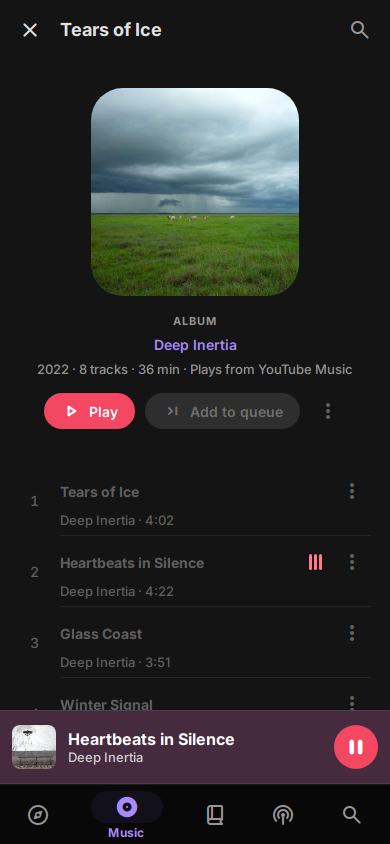
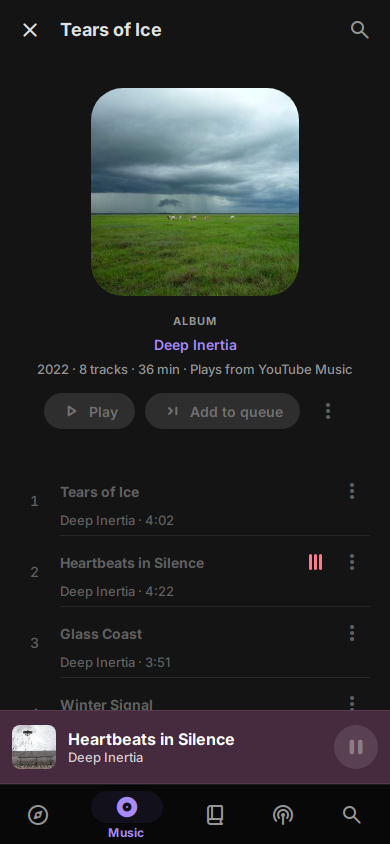
Leave the transport and Play disabled until the player can do them
Staging's controls check refuses an enabled control that does nothing. The player's
transport handlers are optional, and usePlay() hands the handler that plays an item, or
none: generated pages spell onPlay={play(ref, queue, mode)}. The stub gives neither, so
the controls draw disabled as before until the player store fills them; the book and
album renders are back to their committed pixels.

Plan: M1.shell
Claude-Session: https://claude.ai/code/session_013Mi6PDzaGubo3sD3DQbLBz

Changed region(s): [[0.0923, 0.4621, 0.3692, 0.5237], [0.8615, 0.8318, 0.9846, 0.9242]]

diff --git a/web/src/player/index.ts b/web/src/player/index.ts
@@ -2,9 +2,10 @@ import { placeholder, type Loaded } from '../generated/nav/playing';
 
 /**
  * The web's player, as the generated pages and shell bind it: `usePlaying()` is what is loaded,
- * in the canvas's shape, with its transport, or null while nothing is; `usePlay()` starts an
- * item. Until the player store (M1.shell, Part 7) fills them, what is loaded is the canvas's
- * picture of it and the transport and Play do nothing.
+ * in the canvas's shape, with its transport, or null while nothing is; `usePlay()` hands the
+ * handler that starts an item. A handler left out draws its control disabled, as a Sonora control
+ * with no action does. Until the player store (M1.shell, Part 7) fills them, what is loaded is
+ * the canvas's picture of it, with no transport, and nothing plays.
  */
 
 /** The queue an item plays on. */
@@ -13,45 +14,36 @@ export type PlayQueue = 'spoken' | 'music';
 /** How it plays: now, next in the queue, or a list played on its own. */
 export type PlayMode = 'now' | 'next' | 'source';
 
+/** The handler that plays the item `ref` names on `queue`, as `mode` says; none while it cannot. */
+export type Play = (ref: string, queue: PlayQueue, mode: PlayMode) => (() => void) | undefined;
+
 /** What is loaded and its transport, the mini-player's and Now Playing's handlers by name. */
 export interface Playing extends Loaded {
   /** Whether it plays, rather than sits paused. */
   playing: boolean;
   /** The playback rate, 1, 1.25, 1.5 … */
   speed: number;
-  onTogglePlay: () => void;
-  onPrev: () => void;
-  onNext: () => void;
-  onSkipBack: () => void;
-  onSkipForward: () => void;
+  onTogglePlay?: () => void;
+  onPrev?: () => void;
+  onNext?: () => void;
+  onSkipBack?: () => void;
+  onSkipForward?: () => void;
   /** Seeks to `value`, 0-1 of what is loaded. */
-  onSeek: (value: number) => void;
-  onSpeed: () => void;
-  onSleep: () => void;
+  onSeek?: (value: number) => void;
+  onSpeed?: () => void;
+  onSleep?: () => void;
 }
 
-const idle = () => {};
-
-const LOADED: Playing = {
-  ...placeholder,
-  playing: true,
-  speed: 1,
-  onTogglePlay: idle,
-  onPrev: idle,
-  onNext: idle,
-  onSkipBack: idle,
-  onSkipForward: idle,
-  onSeek: idle,
-  onSpeed: idle,
-  onSleep: idle,
-};
+const LOADED: Playing = { ...placeholder, playing: true, speed: 1 };
 
 /** What is loaded, or null while nothing is. */
 export function usePlaying(): Playing | null {
   return LOADED;
 }
 
-/** Plays the item `ref` names on `queue`, as `mode` says. */
-export function usePlay(): (ref: string, queue: PlayQueue, mode: PlayMode) => void {
-  return idle;
+const cannotPlay: Play = () => undefined;
+
+/** The player's Play. */
+export function usePlay(): Play {
+  return cannotPlay;
 }

diff --git a/design-codegen/src/page-web.test.ts b/design-codegen/src/page-web.test.ts
@@ -427,14 +427,14 @@ describe('[M1.shell] a page playing an item, on the web', () => {
     expect(playing).toContain("import { usePlay, type Playing } from '../../player';");
     expect(playing).toContain('  const play = usePlay();');
     expect(playing).toContain(
-      "<MediaCard title={b.title} onClick={() => play(b.ref, 'spoken', 'now')} />",
+      "<MediaCard title={b.title} onClick={play(b.ref, 'spoken', 'now')} />",
     );
   });
 
   it('plays it next, or a list on its own, as the Play says', () => {
-    expect(playing).toContain("onPlay={() => play(data.ref, 'spoken', 'now')}");
-    expect(playing).toContain("onPlayNext={() => play(data.ref, 'spoken', 'next')}");
-    expect(playing).toContain("onPlayLast={() => play(data.ref, 'music', 'source')}");
+    expect(playing).toContain("onPlay={play(data.ref, 'spoken', 'now')}");
+    expect(playing).toContain("onPlayNext={play(data.ref, 'spoken', 'next')}");
+    expect(playing).toContain("onPlayLast={play(data.ref, 'music', 'source')}");
   });
 
   it('refuses a Play in the back layer or subheader, which the shell draws outside the page', () => {

diff --git a/design-codegen/src/page-web.ts b/design-codegen/src/page-web.ts
@@ -170,12 +170,13 @@ function propLines(
     const to = params.length === 0 ? path : `generatePath(${path}, { ${params.join(', ')} })`;
     return [`${name}={() => navigate(${to})}`];
   }
-  // A Play plays its item through the web's player, now, next or as a list on its own.
+  // A Play plays its item through the web's player, now, next or as a list on its own: the
+  // player hands the handler, or none while it cannot play, so the control draws disabled.
   if (value.kind === 'play') {
     const ref = value.params['ref'];
     if (ref === undefined) throw new Error(`${owner}.${name}: Play needs ref={…}`);
     const mode = value.next ? 'next' : value.source ? 'source' : 'now';
-    return [`${name}={() => play(${pathCode(ref)}, '${value.queue}', '${mode}')}`];
+    return [`${name}={play(${pathCode(ref)}, '${value.queue}', '${mode}')}`];
   }
   // No request endpoint exists yet. A handler doing nothing would draw a dead control as
   // enabled, so the prop is left out and Sonora draws the control disabled.

diff --git a/design-codegen/src/book-details.test.ts b/design-codegen/src/book-details.test.ts
@@ -112,7 +112,7 @@ describe('Book', () => {
     });
     expect(typeof data.ref).toBe('string');
     const web = readFileSync(join(REPO_ROOT, 'web/src/generated/pages/Book.tsx'), 'utf8');
-    expect(web).toContain("onPlay={() => play(data.ref, 'spoken', 'now')}");
+    expect(web).toContain("onPlay={play(data.ref, 'spoken', 'now')}");
   });
 
   it("[M0.canvas] names the book once, in the page's heading, with a local search over its chapters", () => {

diff --git a/design-codegen/src/music-details.test.ts b/design-codegen/src/music-details.test.ts
@@ -72,7 +72,7 @@ describe('Album', () => {
     });
     expect(typeof data.ref).toBe('string');
     const web = readFileSync(join(REPO_ROOT, 'web/src/generated/pages/Album.tsx'), 'utf8');
-    expect(web).toContain("onPlay={() => play(data.ref, 'music', 'now')}");
+    expect(web).toContain("onPlay={play(data.ref, 'music', 'now')}");
   });
 
   it("[M0.canvas] names the album once, in the page's heading, and not again in its header", () => {
